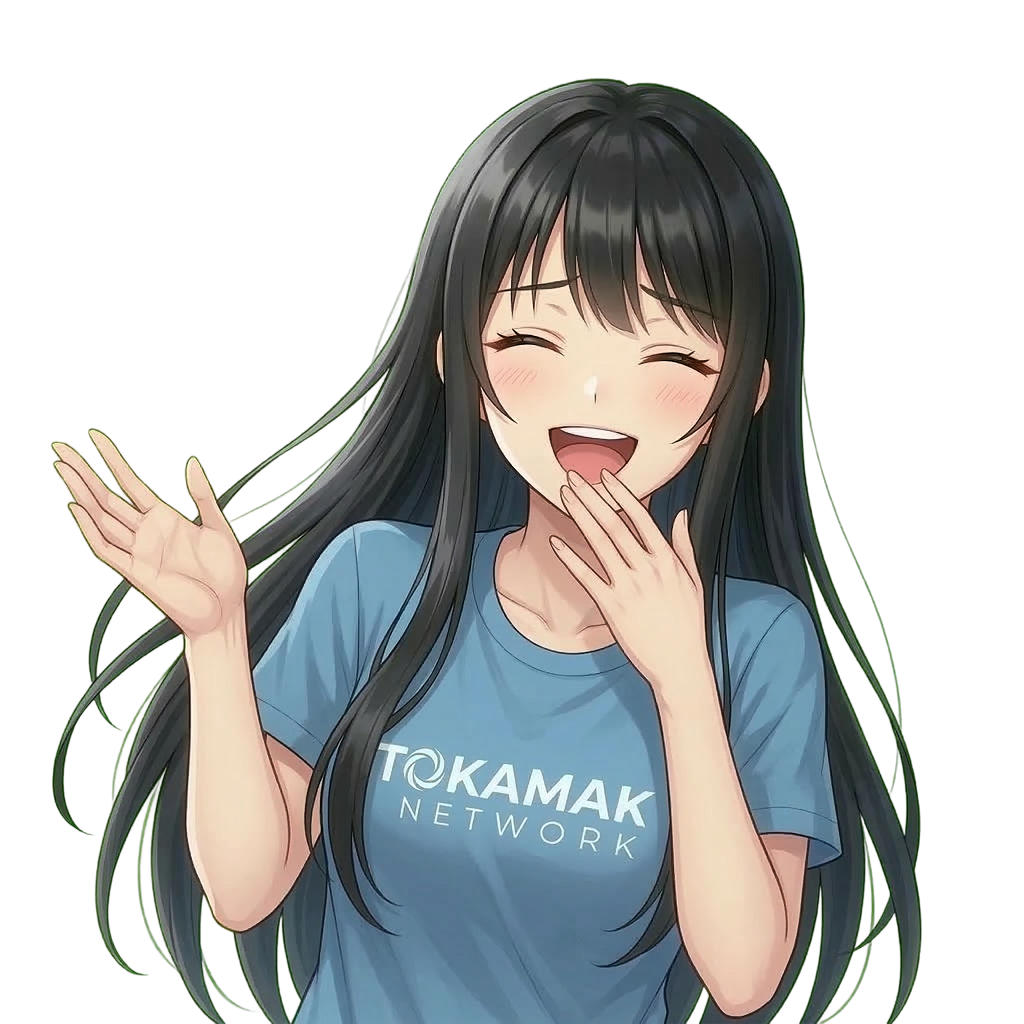
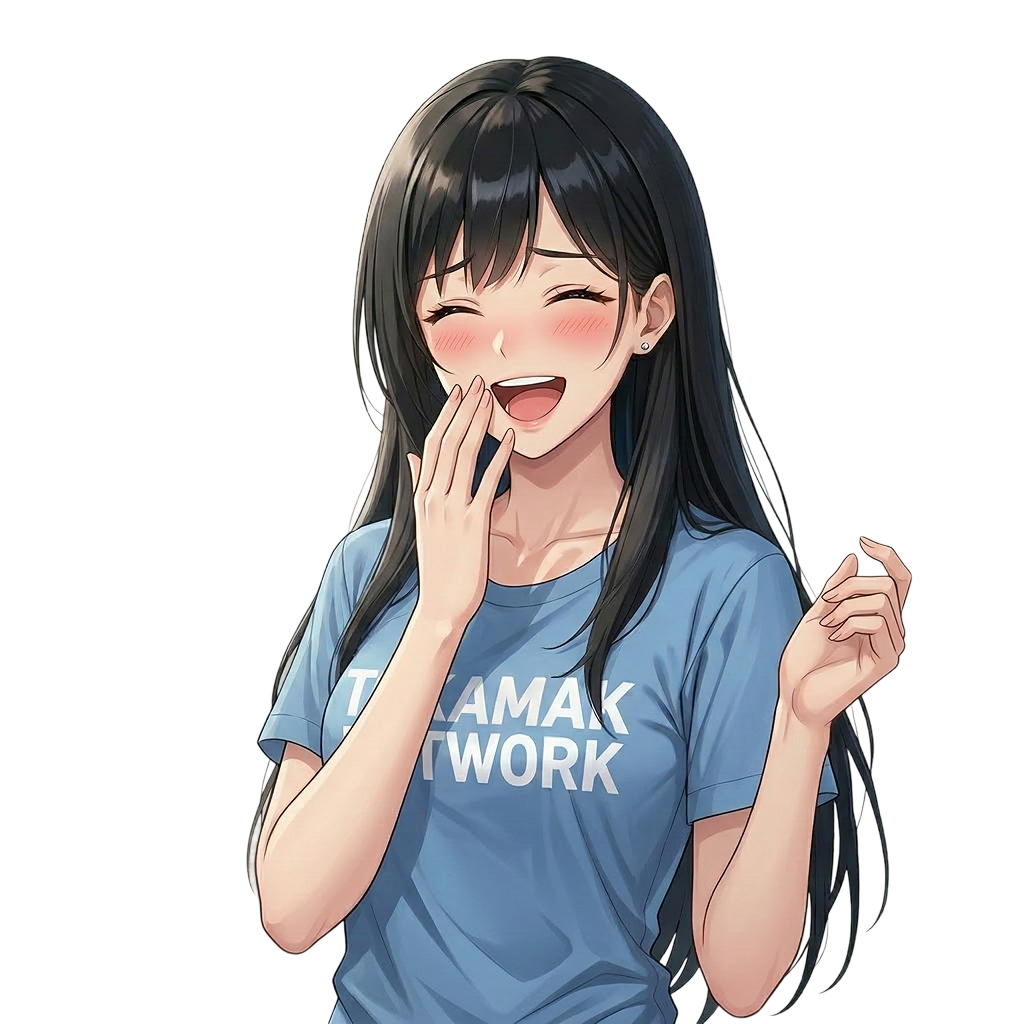
art: replace 4 character sprites for face consistency and fix staking character sizing
Regenerated toki-explain, toki-laughing, toki-thinking, toki-welcome
with unified face style matching the rest of the character set.
Simplified TokiCharacter container by removing max-height constraint.

diff --git a/src/components/staking/StakingScreen.tsx b/src/components/staking/StakingScreen.tsx
@@ -515,11 +515,9 @@ export default function StakingScreen() {
       {/* Middle area: Character left + Interactive panel right */}
       <div className="absolute inset-x-0 top-16 bottom-[176px] z-10 flex items-center justify-center">
         <div className="max-w-3xl w-full mx-auto flex items-end h-full">
-          {/* Left: Toki Character — fixed size, anchored to bottom */}
+          {/* Left: Toki Character */}
           <div className="w-[40%] flex items-end justify-center">
-            <div className="w-full max-h-[50vh]">
-              <TokiCharacter mood={mood} />
-            </div>
+            <TokiCharacter mood={mood} />
           </div>
 
           {/* Right: Interactive Panel */}
@@ -918,8 +916,8 @@ function TokiCharacter({ mood }: { mood: Mood }) {
   const glowColor = MOOD_GLOW[mood];
 
   return (
-    <div className="flex justify-center items-end z-10 h-full">
-      <div className="relative w-64 sm:w-80 md:w-96 lg:w-[28rem] max-h-full aspect-[3/4] overflow-visible">
+    <div className="flex justify-center z-10">
+      <div className="relative w-64 sm:w-80 md:w-96 lg:w-[28rem] aspect-[3/4] overflow-visible">
         <div
           className="absolute inset-[15%] bottom-0 rounded-full blur-3xl -z-10 animate-glow-pulse transition-colors duration-700 opacity-40"
           style={{ backgroundColor: glowColor }}
